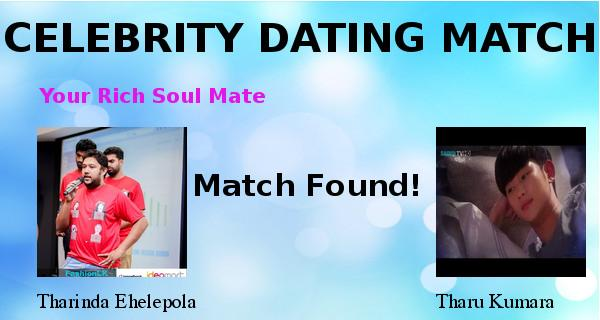
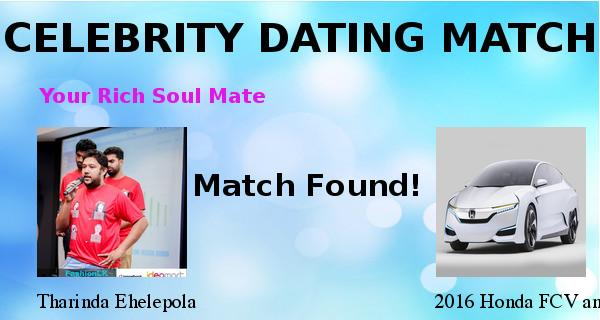
app 2 added

Changed region(s): [[0.72, 0.375, 0.99, 0.875], [0.72, 0.9062, 1.0, 0.9688]]

diff --git a/core/appmgt/facebookApps.py b/core/appmgt/facebookApps.py
@@ -120,5 +120,28 @@ class facebookAppsMethods(object):
     def vehicleFind(self, appId):
         document = databaseCollections.facebookAppsCollectionName.find_one({'_id': ObjectId(appId)})
         profileUrl = getUserProfilePic(session["facebook_user_token"])
-        skill = randint(0, 6)
-        celeb, celebUrl = findSoulMate(session["facebookUser"]["gender"], skill)
+        number = randint(0, 5)
+        name, Url = findFirstVehicle(number)
+        userImage = readImageFromURL(profileUrl, 150, 150)
+        vehicleImage = readImageFromURL(Url, 150, 150)
+        background = Image.open(config.pathToStatic + document["AppSourceImage"])
+        background.paste(userImage, (37, 127))
+        background.paste(vehicleImage, (436, 127))
+        writeTextInImage(session["facebookUser"]["userName"], background, 20, 37, 290)
+        writeTextInImage(name, background, 20, 436, 290)
+        fileName = str(session["facebookUser"]["userId"])
+        dirPath = config.pathToAppsImage + "app2" + "/result"
+        filePath = config.pathToAppsImage + "app2" + "/result" + "/" + fileName + ".jpg"
+        if os.path.isdir(dirPath):
+            if os.path.exists(filePath):
+                os.remove(filePath)
+                background.save(filePath)
+            else:
+                background.save(filePath)
+        else:
+            os.makedirs(dirPath)
+            background.save(filePath)
+        # return config.pathToAppsImage + "app1" + "/" + fileName + ".jpg"
+        return common.baseUrl + "/static/images/appImages/facebook/app2/" + "result" + "/" + fileName + ".jpg"
+
+

diff --git a/core/imageProcessing/Operations.py b/core/imageProcessing/Operations.py
@@ -90,6 +90,7 @@ def findSoulMate(gender, skill):
     return celebrity, celebURL
 
 def findFirstVehicle(number):
+    name, url = "", ""
     if number == 0:
         name = "An Old, Turquoise Chevy Pick-up"
         url = "http://cars.trsty.com/wp-content/uploads/2015/06/an-old-turquoise-chevy-pick-up.jpg"
@@ -108,6 +109,8 @@ def findFirstVehicle(number):
     else :
         name = "Three Wheel"
         url = "http://images.adspot.lk/wp-content/uploads/2015/11/04205208/large-green-440x340.png"
+
+    return name, url
 
 def writeTextInImage(text, img, fontSize, x, y):
     draw = ImageDraw.Draw(img)
